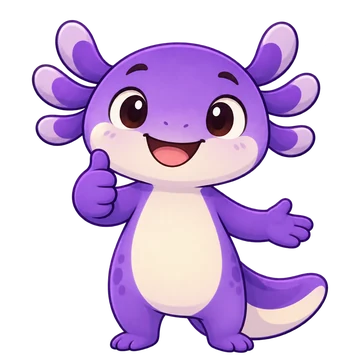
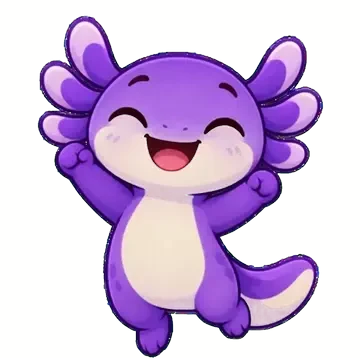
Lumo animado y siempre visible: fija precargada al abrir la app (mismo encuadre que la animación) y animación en bucle al estar lista; sin rebote; nunca dos personajes (escucha solo antes de responder, feedback inline sin Lumo); prueba de nivel sin Lumo; animaciones optimizadas 6,6 → 2,7 MB

diff --git a/lib/shared/widgets/lumo.dart b/lib/shared/widgets/lumo.dart
@@ -2,20 +2,28 @@ import 'package:flutter/material.dart';
 
 import '../../core/efectos.dart';
 
-/// Poses de Lumo (assets/img/mascotas, 360 px con transparencia).
-/// Fuentes en alta resolución: output/imagegen/mascotas/fuente/.
+/// Poses de Lumo (assets/img/mascotas): imagen fija (360 px, ~25 KB) y
+/// animación en bucle (216 px, 8 fps, 0,3–0,6 MB). Fuentes en alta
+/// resolución: output/imagegen/mascotas/fuente/.
 enum PoseLumo {
-  reposo('lumo-reposo-alpha.png'),
-  celebra('lumo-celebra-alpha.webp'),
-  anima('lumo-anima-alpha.webp'),
-  errorAmable('lumo-error-amable-alpha.webp'),
-  pensando('lumo-pensando-alpha.webp'),
-  escucha('lumo-escucha-alpha.webp'),
-  sorprendido('lumo-sorprendido-alpha.webp');
+  reposo('lumo-reposo-alpha.png', 'lumo-idle-alpha.webp'),
+  celebra('lumo-celebra-alpha.webp', 'lumo-celebra-anim-alpha.webp'),
+  anima('lumo-anima-alpha.webp', 'lumo-anima-anim-alpha.webp'),
+  errorAmable(
+    'lumo-error-amable-alpha.webp',
+    'lumo-error-amable-anim-alpha.webp',
+  ),
+  pensando('lumo-pensando-alpha.webp', 'lumo-pensando-anim-alpha.webp'),
+  escucha('lumo-escucha-alpha.webp', 'lumo-escucha-anim-alpha.webp'),
+  sorprendido(
+    'lumo-sorprendido-alpha.webp',
+    'lumo-sorprendido-anim-alpha.webp',
+  );
 
-  const PoseLumo(this.archivo);
-  final String archivo;
+  const PoseLumo(this.archivo, this.archivoAnimado);
+  final String archivo, archivoAnimado;
   String get asset => 'assets/img/mascotas/$archivo';
+  String get assetAnimado => 'assets/img/mascotas/$archivoAnimado';
 
   static int _aciertos = 0;
 
@@ -24,46 +32,92 @@ enum PoseLumo {
       (_aciertos++).isEven ? PoseLumo.celebra : PoseLumo.anima;
 }
 
-/// Lumo reaccionando: entra con un pequeño salto (o quieto si el alumno
-/// desactivó las animaciones o el sistema pide movimiento reducido).
+/// Lumo reaccionando. Nunca debe haber dos personajes a la vez en pantalla.
+/// Siempre se ve: la imagen fija (precargada al abrir la
+/// app) aparece al instante y se sustituye por la animación cuando esta ya
+/// está decodificada. Sin animaciones (ajuste del alumno o movimiento
+/// reducido del sistema) queda la imagen fija.
 class LumoReaccion extends StatelessWidget {
   const LumoReaccion({super.key, required this.pose, this.size = 96});
   final PoseLumo pose;
   final double size;
 
-  @override
-  Widget build(BuildContext context) {
-    final imagen = Image.asset(
-      pose.asset,
+  Widget _fija() => Image.asset(
+    pose.asset,
+    width: size,
+    height: size,
+    fit: BoxFit.contain,
+    excludeFromSemantics: true,
+    gaplessPlayback: true,
+    errorBuilder: (_, _, _) => Image.asset(
+      PoseLumo.reposo.asset,
       width: size,
       height: size,
-      fit: BoxFit.contain,
       excludeFromSemantics: true,
-      errorBuilder: (_, _, _) => Image.asset(
-        PoseLumo.reposo.asset,
-        width: size,
-        height: size,
-        excludeFromSemantics: true,
-      ),
-    );
+    ),
+  );
+
+  @override
+  Widget build(BuildContext context) {
     return ValueListenableBuilder<bool>(
       valueListenable: Efectos.animaciones,
       builder: (context, enabled, _) {
-        if (!enabled || MediaQuery.disableAnimationsOf(context)) return imagen;
-        final alegre = pose != PoseLumo.errorAmable;
-        return TweenAnimationBuilder<double>(
-          key: ValueKey(pose),
-          tween: Tween(begin: 0, end: 1),
-          duration: Duration(milliseconds: alegre ? 650 : 500),
-          curve: alegre ? Curves.elasticOut : Curves.easeOutBack,
-          builder: (_, t, child) => Transform.translate(
-            // Alegre: salta desde abajo; triste: se hunde un poco al entrar.
-            offset: Offset(0, (alegre ? 18 : -8) * (1 - t)),
-            child: Transform.scale(scale: .7 + .3 * t, child: child),
-          ),
-          child: imagen,
+        final fija = _fija();
+        if (!enabled || MediaQuery.disableAnimationsOf(context)) return fija;
+        final animada = Image.asset(
+          pose.assetAnimado,
+          width: size,
+          height: size,
+          fit: BoxFit.contain,
+          excludeFromSemantics: true,
+          gaplessPlayback: true,
+          // Hasta tener el primer cuadro, la imagen fija (nunca un hueco).
+          frameBuilder: (_, child, frame, sincrono) =>
+              frame == null && !sincrono ? fija : child,
+          errorBuilder: (_, _, _) => fija,
         );
+        // Sin rebote de entrada: la animación propia de la pose basta.
+        return animada;
       },
     );
   }
+}
+
+/// Precarga a Lumo al abrir la app: las imágenes fijas enseguida (son
+/// ligeras y deben estar listas antes del primer «Comprobar») y las
+/// animaciones unos segundos después, en segundo plano.
+class PrecargaLumo extends StatefulWidget {
+  const PrecargaLumo({super.key, required this.child});
+  final Widget child;
+
+  @override
+  State<PrecargaLumo> createState() => _PrecargaLumoState();
+}
+
+class _PrecargaLumoState extends State<PrecargaLumo> {
+  bool _hecho = false;
+
+  @override
+  void didChangeDependencies() {
+    super.didChangeDependencies();
+    if (_hecho) return;
+    _hecho = true;
+    for (final p in PoseLumo.values) {
+      precacheImage(AssetImage(p.asset), context, onError: (_, _) {});
+    }
+    Future<void>.delayed(const Duration(seconds: 4), () {
+      if (!mounted) return;
+      for (final p in [
+        PoseLumo.celebra,
+        PoseLumo.anima,
+        PoseLumo.errorAmable,
+        PoseLumo.pensando,
+      ]) {
+        precacheImage(AssetImage(p.assetAnimado), context, onError: (_, _) {});
+      }
+    });
+  }
+
+  @override
+  Widget build(BuildContext context) => widget.child;
 }

diff --git a/lib/features/ruta/item_view.dart b/lib/features/ruta/item_view.dart
@@ -66,7 +66,11 @@ class ItemView extends StatefulWidget {
     required this.permitirReintento,
     required this.onComprobado,
     required this.onContinuar,
+    this.lumo = true,
   });
+
+  /// Lumo acompaña (escucha, pista, panel). La prueba de nivel lo desactiva.
+  final bool lumo;
   final Item item;
   final String idioma;
   final List<String> cadena;
@@ -288,6 +292,7 @@ class _ItemViewState extends State<ItemView> {
       titulo: ok ? '¡Correcto!' : 'Vamos a repasarlo',
       cuerpo: cuerpoFeedback(ok),
       reintentar: !ok && widget.permitirReintento,
+      lumo: widget.lumo,
     );
     if (!mounted) return;
     setState(() => panelAbierto = false);
@@ -383,11 +388,25 @@ class _ItemViewState extends State<ItemView> {
           if (item.audio != null)
             Padding(
               padding: const EdgeInsets.only(bottom: 16),
-              child: BotonAudio(
-                texto: item.audio!,
-                idioma: widget.idioma,
-                etiqueta: 'Escuchar el audio',
-                grande: true,
+              child: Row(
+                children: [
+                  // Lumo escucha contigo en los ejercicios de audio.
+                  // Solo antes de responder: con el panel abierto ya hay otro Lumo.
+                  if (widget.lumo &&
+                      item.formato == FormatoItem.escuchar &&
+                      correcta == null) ...[
+                    const LumoReaccion(pose: PoseLumo.escucha, size: 64),
+                    const SizedBox(width: 8),
+                  ],
+                  Expanded(
+                    child: BotonAudio(
+                      texto: item.audio!,
+                      idioma: widget.idioma,
+                      etiqueta: 'Escuchar el audio',
+                      grande: true,
+                    ),
+                  ),
+                ],
               ),
             ),
           if (item.audio == null && item.texto?.trim().isNotEmpty == true)
@@ -734,8 +753,10 @@ class _ItemViewState extends State<ItemView> {
             Row(
               crossAxisAlignment: CrossAxisAlignment.start,
               children: [
-                const LumoReaccion(pose: PoseLumo.pensando, size: 60),
-                const SizedBox(width: 8),
+                if (widget.lumo) ...[
+                  const LumoReaccion(pose: PoseLumo.pensando, size: 60),
+                  const SizedBox(width: 8),
+                ],
                 Expanded(
                   child: Text(
                     t(item.pista),

diff --git a/lib/shared/widgets/feedback_experience.dart b/lib/shared/widgets/feedback_experience.dart
@@ -172,13 +172,15 @@ class AnswerFeedback extends StatelessWidget {
     required this.correct,
     required this.title,
     required this.child,
-    this.lumo = true,
+    this.lumo = false,
   });
   final bool correct;
   final String title;
   final Widget child;
 
-  /// Lumo reacciona (feliz al acertar, triste pero amable al fallar).
+  /// Lumo reacciona (feliz al acertar, triste pero amable al fallar). Por
+  /// defecto no: estas pantallas ya muestran un personaje y nunca debe haber
+  /// dos a la vez. El panel inferior es quien lleva a Lumo.
   final bool lumo;
   @override
   Widget build(BuildContext context) => FeedbackMotion(
@@ -298,6 +300,7 @@ Future<String?> mostrarPanelResultado(
   required Widget cuerpo,
   bool reintentar = false,
   String boton = 'SIGUIENTE',
+  bool lumo = true,
 }) {
   final pose = correcto ? PoseLumo.acierto() : PoseLumo.errorAmable;
   final color = correcto ? const Color(0xFF197D58) : OL.rojo;
@@ -332,8 +335,10 @@ Future<String?> mostrarPanelResultado(
                   Row(
                     crossAxisAlignment: CrossAxisAlignment.end,
                     children: [
-                      LumoReaccion(pose: pose, size: 92),
-                      const SizedBox(width: 10),
+                      if (lumo) ...[
+                        LumoReaccion(pose: pose, size: 92),
+                        const SizedBox(width: 10),
+                      ],
                       Expanded(
                         child: Padding(
                           padding: const EdgeInsets.only(bottom: 12),

diff --git a/test/panel_resultado_test.dart b/test/panel_resultado_test.dart
@@ -5,7 +5,11 @@ import 'package:onelingo/shared/widgets/feedback_experience.dart';
 import 'package:onelingo/shared/widgets/lumo.dart';
 
 void main() {
-  Future<String?> abrir(WidgetTester tester, bool correcto) async {
+  Future<String?> abrir(
+    WidgetTester tester,
+    bool correcto, {
+    bool conLumo = true,
+  }) async {
     Efectos.sonido = false;
     addTearDown(() => Efectos.sonido = true);
     String? resultado;
@@ -21,6 +25,7 @@ void main() {
                   titulo: correcto ? '¡Correcto!' : 'Vamos a repasarlo',
                   cuerpo: const Text('Explicación'),
                   reintentar: !correcto,
+                  lumo: conLumo,
                 ),
                 child: const Text('abrir'),
               ),
@@ -57,6 +62,12 @@ void main() {
     expect(lumo(PoseLumo.errorAmable), findsOneWidget);
     expect(find.text('Explicación'), findsOneWidget);
     expect(find.text('Intentar otra vez ahora'), findsOneWidget);
+  });
+
+  testWidgets('Prueba de nivel: panel sin Lumo', (tester) async {
+    await abrir(tester, true, conLumo: false);
+    expect(find.text('¡Correcto!'), findsOneWidget);
+    expect(find.byType(LumoReaccion), findsNothing);
   });
 
   test('Las poses alternan al acertar', () {

diff --git a/lib/main.dart b/lib/main.dart
@@ -14,6 +14,7 @@ import 'core/efectos.dart';
 import 'core/voz.dart';
 import 'shared/widgets/connection_banner.dart';
 import 'core/state/providers.dart';
+import 'shared/widgets/lumo.dart';
 
 Future<void> main() async {
   WidgetsFlutterBinding.ensureInitialized();
@@ -48,7 +49,9 @@ class OneLingoApp extends ConsumerWidget {
         GlobalCupertinoLocalizations.delegate,
       ],
       builder: (context, child) => _UsoTracker(
-        child: _PrecargaEscritura(child: ConnectionBanner(child: child!)),
+        child: PrecargaLumo(
+          child: _PrecargaEscritura(child: ConnectionBanner(child: child!)),
+        ),
       ),
     );
   }

diff --git a/lib/features/onboarding/ubicacion_screen.dart b/lib/features/onboarding/ubicacion_screen.dart
@@ -325,6 +325,8 @@ class _UbicacionScreenState extends ConsumerState<UbicacionScreen> {
           cadena: const [],
           guiada: false,
           permitirReintento: false,
+          // Prueba de nivel limpia, sin Lumo.
+          lumo: false,
           onComprobado: (correcta, _) => u!.responder(correcta),
           onContinuar: () {
             if (u!.actual != null) u!.responder(false);
